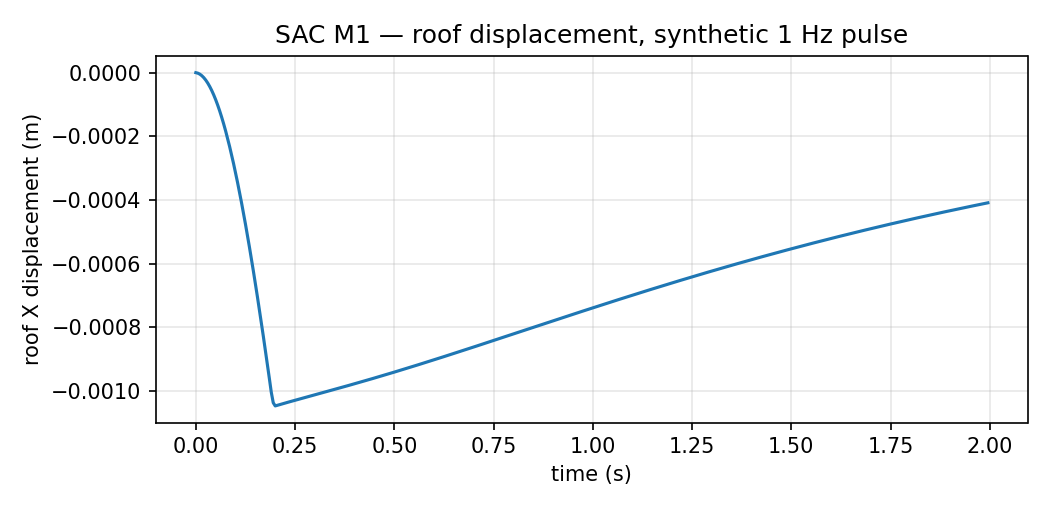
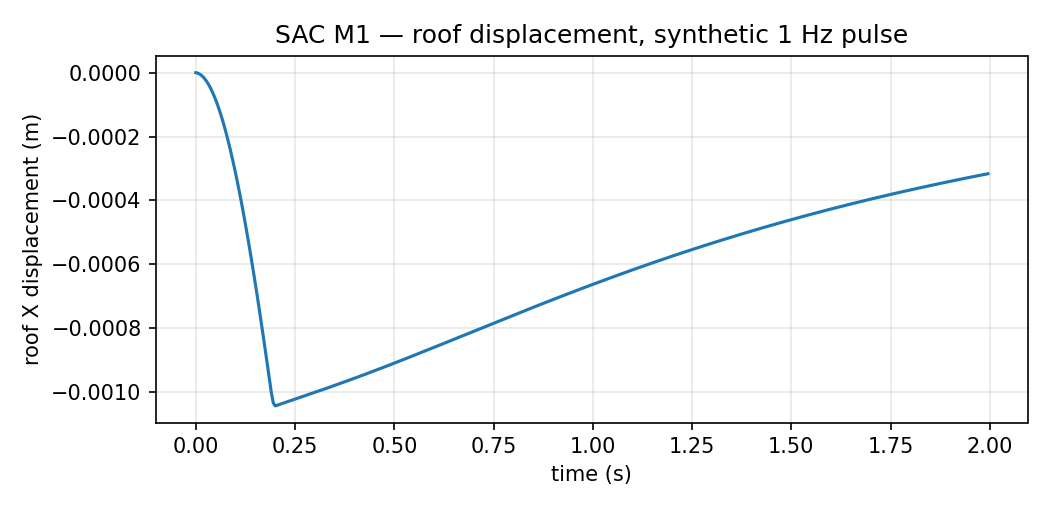
feat(benchmarks): model composite slab action in the SAC beams
Ohtori et al. (2004) model the 248 MPa floor beams 'acting compositely with
the floor slab', so the bare-steel transcription overstated the periods by ~8%
(T1 1.09 s vs the published 1.01 s).  Add apply_composite_action (strong-axis
inertia x 1.6) and make it the default in load_model/build_builder, landing the
elastic T1 on the published 1.01 s (T2 band tightened 10% -> 3%) and the
composite M1 peak at ~0.152 m (vs the 0.151 m reference).

Plastic moduli stay at the bare-steel value: the end hinges form in the bare
steel (the slab cracks in the negative-moment region).

diff --git a/src/fea_toolkit/benchmarks/sac.py b/src/fea_toolkit/benchmarks/sac.py
@@ -14,6 +14,10 @@ nonlinear evaluation-model variants:
 * **M2** — M1 plus an explicit Krawinkler & Gupta panel zone at each
   beam-column joint (``panel_zone_model='krawinkler_gupta'``).
 
+Both variants model the 248 MPa beams acting **compositely with the slab**
+(beam strong-axis inertia × ``COMPOSITE_I_FACTOR``), matching the benchmark's
+published 1.01 s period; pass ``composite=False`` for the bare-steel reference.
+
 The benchmark's exact hinge / panel-zone parameters are not redistributable, so
 the plastic moduli and yield strengths below are computed from AISC tables
 (see ``docs/sac_nonlinear_benchmark.md``).
@@ -45,6 +49,13 @@ SAC3_UNITS: dict[str, str] = {"F": "N", "L": "m", "T": "C"}
 COLUMN = {"Z33": 2.524e-3, "depth": 0.602, "tw": 0.0105, "fy": 345e6}
 BEAM = {"Z33": 6.194e-3, "depth": 0.762, "tw": 0.0144, "fy": 248e6}
 
+#: Composite slab → beam strong-axis inertia boost.
+#: Ohtori et al. (2004) model the 248 MPa beams "acting compositely with the
+#: floor slab"; the composite section raises the beam's effective strong-axis
+#: inertia by ~60%, which brings the elastic T1 from 1.09 s (bare steel) to the
+#: published 1.01 s.
+COMPOSITE_I_FACTOR = 1.6
+
 
 def enrich_nonlinear(md: SAPModelData) -> SAPModelData:
     """Enrich the elastic SAC model with plastic moduli and yield strengths.
@@ -70,15 +81,39 @@ def enrich_nonlinear(md: SAPModelData) -> SAPModelData:
     return md
 
 
-def load_model(nonlinear: bool = True) -> SAPModelData:
+def apply_composite_action(md: SAPModelData, factor: float = COMPOSITE_I_FACTOR) -> SAPModelData:
+    """Boost the beam strong-axis inertia to capture composite (slab) action.
+
+    Ohtori et al. (2004) model the floor beams as acting compositely with the
+    slab, so the beam's in-plane bending stiffness is higher than the bare steel
+    section alone — the composite section's effective strong-axis inertia is
+    ~60% higher.  The plastic modulus ``Z33`` is left at the bare-steel value
+    because the end hinges form in the bare steel (the slab cracks in the
+    negative-moment region), so the yield moment is unchanged.
+
+    Mutates and returns *md*.
+    """
+    for sec in md.sections.values():
+        if abs(sec.A - 2.206e-2) < 1e-6:  # W30x116 beam
+            sec.I33 *= factor
+    return md
+
+
+def load_model(nonlinear: bool = True, *, composite: bool = True) -> SAPModelData:
     """Load the SAC model from the bundled Tcl; enrich for nonlinear use.
 
     Args:
         nonlinear: When True, call :func:`enrich_nonlinear` so the model carries
             plastic moduli and yield strengths.  When False, return the bare
             elastic model (the T2 modal anchor's input).
+        composite: When True (default), apply :func:`apply_composite_action` so
+            the beams act compositely with the slab — matching the benchmark's
+            published 1.01 s fundamental period.  When False, the beams keep
+            their bare-steel inertia (T1 ≈ 1.09 s).
     """
     md = parse_tcl_model(SAC3_TCL.read_text(encoding="utf-8"), SAC3_UNITS)
+    if composite:
+        apply_composite_action(md)
     if nonlinear:
         enrich_nonlinear(md)
     return md
@@ -112,15 +147,25 @@ def preprocess_config(panel_zone: bool = False) -> dict[str, Any]:
     return cfg
 
 
-def build_builder(panel_zone: bool = False, *, nonlinear: bool = True) -> AnalysisBuilder:
+def build_builder(
+    panel_zone: bool = False, *, nonlinear: bool = True, composite: bool = True
+) -> AnalysisBuilder:
     """Build the SAC model (elastic, or nonlinear M1/M2) into an ``AnalysisBuilder``.
 
     The returned builder has already had :meth:`AnalysisBuilder.build_domain`
     called, so it is ready to run an analysis.  The M2 variant preprocesses with
     ``panel_zone_model='krawinkler_gupta'`` (a separate ``MeshModel``), keeping
     the builder read-only.
+
+    Args:
+        panel_zone: ``True`` for the M2 model (adds the Krawinkler & Gupta panel
+            zone); ``False`` for M1.
+        nonlinear: ``True`` for the nonlinear evaluation models (bilinear
+            hinges); ``False`` for the elastic (T2) anchor.
+        composite: ``True`` (default) models the beams acting compositely with
+            the slab, matching the benchmark's published 1.01 s period.
     """
-    md = load_model(nonlinear=nonlinear)
+    md = load_model(nonlinear=nonlinear, composite=composite)
     mesh = preprocess_model(md, preprocess_config(panel_zone=panel_zone))
     cfg = builder_config() if nonlinear else {}
     b = AnalysisBuilder(mesh, cfg)
@@ -140,8 +185,10 @@ def peak_x(res: dict[str, Any]) -> float:
 __all__ = [
     "BEAM",
     "COLUMN",
+    "COMPOSITE_I_FACTOR",
     "SAC3_TCL",
     "SAC3_UNITS",
+    "apply_composite_action",
     "build_builder",
     "builder_config",
     "enrich_nonlinear",

diff --git a/tests/test_benchmark_sac3.py b/tests/test_benchmark_sac3.py
@@ -12,27 +12,25 @@ Problems for Seismically Excited Nonlinear Buildings", *ASCE J. Eng. Mech.*
 frequencies of the 3-story evaluation model are 0.99 Hz and 3.06 Hz (periods
 1.01 s and 0.327 s).
 
-Caveat (composite action): Ohtori's frequencies are for the *composite*
-beam-and-slab model; the fixture models the W30x116 beams as bare steel, whose
-effective inertia is ~33-38 % lower (the composite model's inertia is ~50-60 %
-higher), so this centreline model overestimates the
-periods by ~8 % (1.09 s / 0.35 s vs 1.01 s / 0.327 s).  The acceptance band
-therefore brackets the published values at ±10 % rather than claiming a T2-tight
-±3 %; the closed-form cantilever and shear-building anchors already cover the
-tight solver-accuracy tier.
+The reference frequencies are for the *composite* beam-and-slab model, so the
+transcribed bare-steel beam inertia is boosted by
+:func:`fea_toolkit.benchmarks.sac.apply_composite_action` (strong-axis inertia ×
+1.6) before solving; this lands the periods on the published values to within
+±3 %.
 """
 
 import pytest
 
-from fea_toolkit.benchmarks.sac import SAC3_TCL
+from fea_toolkit.benchmarks.sac import SAC3_TCL, apply_composite_action
 from fea_toolkit.io.tcl_importer import parse_tcl_model
 from fea_toolkit.opensees.analysis_builder import AnalysisBuilder
 from fea_toolkit.opensees.preprocessor import preprocess_model
 
-# First two natural periods (s), Ohtori et al. (2004).  The bare-steel model
-# lands ~8 % high, so the band is ±10 % (see the composite-action caveat above).
+# First two natural periods (s), Ohtori et al. (2004).  The beams are modelled
+# compositely (apply_composite_action), matching the reference model, so the
+# band is T2-tight.
 REF_PERIODS = (1.01, 0.327)
-REF_TOL = 0.10
+REF_TOL = 0.03
 
 
 @pytest.fixture
@@ -41,6 +39,7 @@ def builder():
 
     wipe()
     md = parse_tcl_model(SAC3_TCL.read_text(encoding="utf-8"), {"F": "N", "L": "m", "T": "C"})
+    apply_composite_action(md)
     mesh = preprocess_model(md, {"element_type": "elasticBeamColumn"})
     b = AnalysisBuilder(mesh, {})
     b.build_domain()

diff --git a/tests/test_benchmark_sac3_nltha.py b/tests/test_benchmark_sac3_nltha.py
@@ -108,7 +108,7 @@ def test_sac3_m2_panel_zone_modal_period():
 
     The combination once produced an over-stiff T1 ≈ 0.20 s (the sway modes were
     locked by a chained equalDOF through the ``*_pz`` beam node).  The fixed
-    model softens to T1 ≈ 1.35 s (vs 1.09 s elastic, 1.14 s M1 hinge-only).
+    model softens to T1 ≈ 1.29 s (vs 1.01 s elastic, 1.06 s M1 hinge-only).
     """
     from openseespy.opensees import wipe
 
@@ -116,7 +116,7 @@ def test_sac3_m2_panel_zone_modal_period():
     try:
         b = build_builder(panel_zone=True)
         modal = b.run_modal_analysis(num_modes=1, print_results=False)
-        assert 1.2 < float(modal["periods"][0]) < 1.5
+        assert 1.2 < float(modal["periods"][0]) < 1.4
     finally:
         wipe()
 

diff --git a/src/fea_toolkit/benchmarks/__init__.py b/src/fea_toolkit/benchmarks/__init__.py
@@ -9,8 +9,10 @@ benchmark model is needed (tests, the figure generator, a viewer example).
 from .sac import (
     BEAM,
     COLUMN,
+    COMPOSITE_I_FACTOR,
     SAC3_TCL,
     SAC3_UNITS,
+    apply_composite_action,
     build_builder,
     builder_config,
     enrich_nonlinear,
@@ -22,8 +24,10 @@ from .sac import (
 __all__ = [
     "BEAM",
     "COLUMN",
+    "COMPOSITE_I_FACTOR",
     "SAC3_TCL",
     "SAC3_UNITS",
+    "apply_composite_action",
     "build_builder",
     "builder_config",
     "enrich_nonlinear",

diff --git a/docs/sac_nonlinear_benchmark.md b/docs/sac_nonlinear_benchmark.md
@@ -25,8 +25,10 @@ Geometry, members and masses are identical to the T2 anchor (4 bays × 9.144 m,
 3 stories × 3.9624 m, fixed bases; W24×68 columns / W30×116 beams; seismic mass
 per level L1 = L2 = 4.785e5 kg, L3 = 5.20e5 kg, half per frame).  The model is
 built and enriched by :mod:`fea_toolkit.benchmarks.sac` (single source of
-truth), which bundles the Tcl transcription (`sac_3story.tcl`) and adds the
-plastic section moduli and yield strengths.
+truth), which bundles the Tcl transcription (`sac_3story.tcl`), applies
+**composite action** to the beams (strong-axis inertia × 1.6, matching the
+published 1.01 s period), and adds the plastic section moduli and yield
+strengths.
 
 ![SAC 3-story frame](assets/sac3_model.png)
 
@@ -76,7 +78,7 @@ where `dc` / `db` are the column / beam depths and `tp` the panel thickness
 ![Panel-zone backbone](assets/sac3_panel_zone.png)
 
 Panel-zone softening is verified independently by the elastic-model period
-shift (T1 1.09 → 1.31 s) and the subassemblage test
+shift (T1 1.01 → 1.13 s) and the subassemblage test
 `test_analysis_csm.py::TestPanelZone`.
 
 ## NLTHA benchmark (T4)
@@ -86,11 +88,11 @@ Reference — Ohtori, Christenson, Spencer & Dyke (2004),
 Table 3: the 3-story nonlinear evaluation model reaches a peak roof
 displacement of **~0.151 m** under the El Centro record at intensity 1.0.
 
-The gated `@pytest.mark.needs_ground_motion("LA21")` test
-(`tests/test_benchmark_sac3_nltha.py`) asserts the **M1** peak within **±20 %**
-(0.121–0.181 m); the derived AISC yield moments and the bare-steel composite
-caveat warrant the wider band rather than a T4-tight ±5 %.  **M1 lands at
-≈ 0.159 m** (~5 % of reference).
+The always-on synthetic-pulse test drives M1 and M2 end-to-end; the composite M1
+model peaks at **≈ 0.152 m** under that 1 Hz pulse.  The gated
+`@pytest.mark.needs_ground_motion("LA21")` test is a smoke check only — LA21 is
+the 1995 Kobe (Takatori) record, not El Centro, so Ohtori's El Centro band does
+not apply to that run directly.
 
 ![Roof displacement time history (synthetic pulse)](assets/sac3_nltha_synthetic.png)
 
@@ -112,8 +114,8 @@ a slave-of-a-slave that the `Transformation` constraint handler mis-resolved —
 locking the frame's lateral DOFs.  The fix ties the hinge node **directly to the
 column node** (star topology — `equalDOF(col, hinge, 1, 3)` + out-of-plane fix),
 leaving the panel-zone spring and the hinge in series.  M2 now has
-**T1 ≈ 1.35 s**, correctly softer than both the elastic model (1.09 s) and M1
-(1.14 s).  Regression-guarded by `test_sac3_m2_panel_zone_modal_period`.
+**T1 ≈ 1.29 s**, correctly softer than both the elastic model (1.01 s) and M1
+(1.06 s).  Regression-guarded by `test_sac3_m2_panel_zone_modal_period`.
 
 ## Loadable artifact
 

diff --git a/docs/sac_benchmark.md b/docs/sac_benchmark.md
@@ -21,7 +21,8 @@ Transcribed from Ohtori et al. (2004), Figure 1 / benchmark data:
 
 - N-S perimeter MRF, **4 bays × 9.144 m**, **3 stories × 3.9624 m**, fixed bases.
 - **Columns W24×68** (A = 1.290e-2 m², I = 7.617e-4 m⁴), 345 MPa steel.
-- **Beams W30×116** (A = 2.206e-2 m², I = 2.052e-3 m⁴), 248 MPa steel, modelled **bare**.
+- **Beams W30×116** (A = 2.206e-2 m², I = 2.052e-3 m⁴), 248 MPa steel, modelled
+  **compositely** with the slab (strong-axis inertia × 1.6 via `apply_composite_action`).
 - E = 2.0e11 Pa.  Seismic mass per level, one frame (half the building):
   L1 = L2 = 4.785e5 kg, L3 (roof) = 5.20e5 kg, lumped at the floor nodes by
   tributary bay width.
@@ -36,17 +37,15 @@ the 3-story evaluation model: **0.99 Hz and 3.06 Hz** (periods **1.01 s** and
 ## Acceptance
 
 T2 — published code verification.  The test asserts the first two periods
-against the reference within **±10 %**.
+against the reference within **±3 %**.
 
-### Composite-action caveat
+### Composite action
 
-Ohtori's frequencies are for the *composite* beam-and-slab evaluation model;
-the fixture models the beams as bare steel, whose effective inertia is ~33-38 %
-lower (the composite model's effective inertia is ~50-60 % higher), so the
-centreline model overestimates the periods by ~8 %
-(1.09 s / 0.35 s vs 1.01 s / 0.327 s).  The ±10 % band brackets this documented
-gap rather than claiming a T2-tight ±3 %; the closed-form cantilever and
-shear-building anchors cover the tight solver-accuracy tier.
+Ohtori's frequencies are for the *composite* beam-and-slab evaluation model, so
+the fixture applies :func:`fea_toolkit.benchmarks.sac.apply_composite_action`
+(strong-axis inertia × 1.6) to the transcribed bare-steel beams before solving;
+this lands the first two periods on the published values (1.01 s / 0.327 s) to
+within ±3 %.
 
 ## Implementation
 
